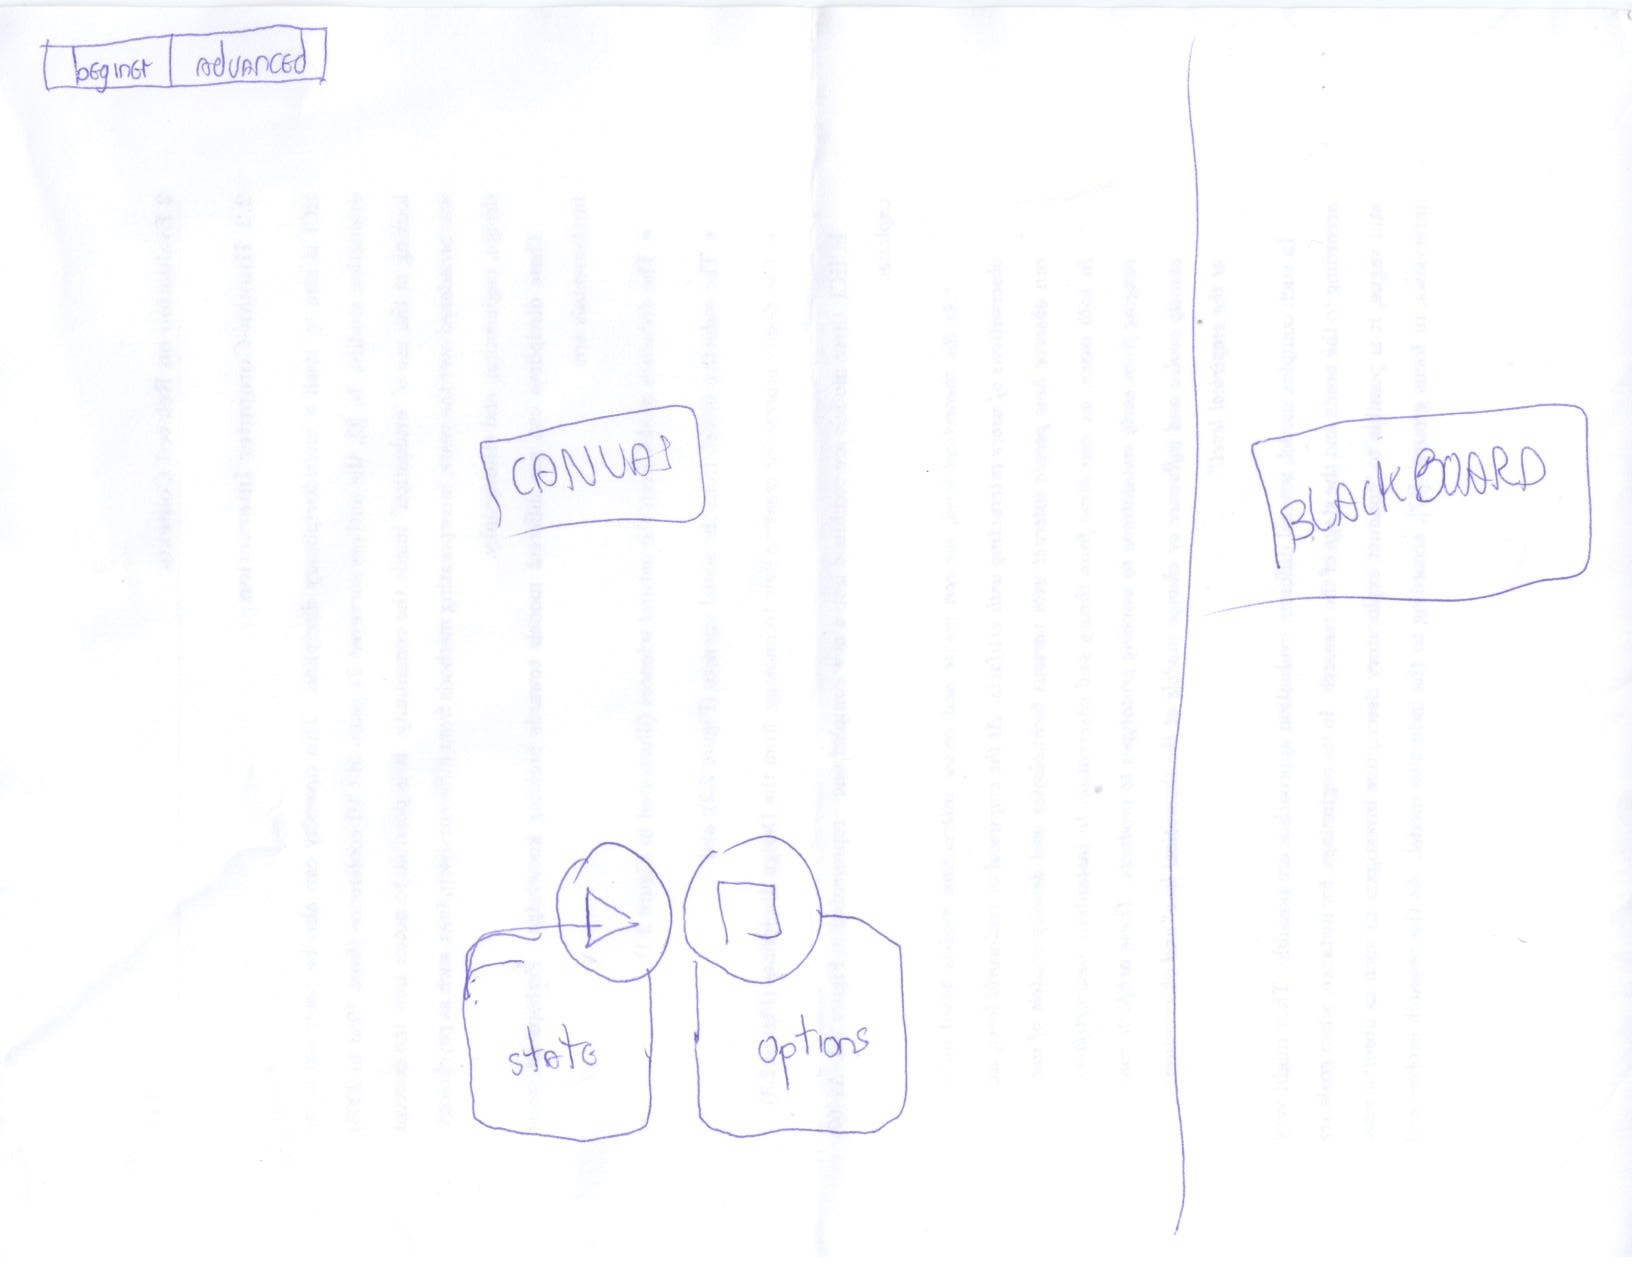
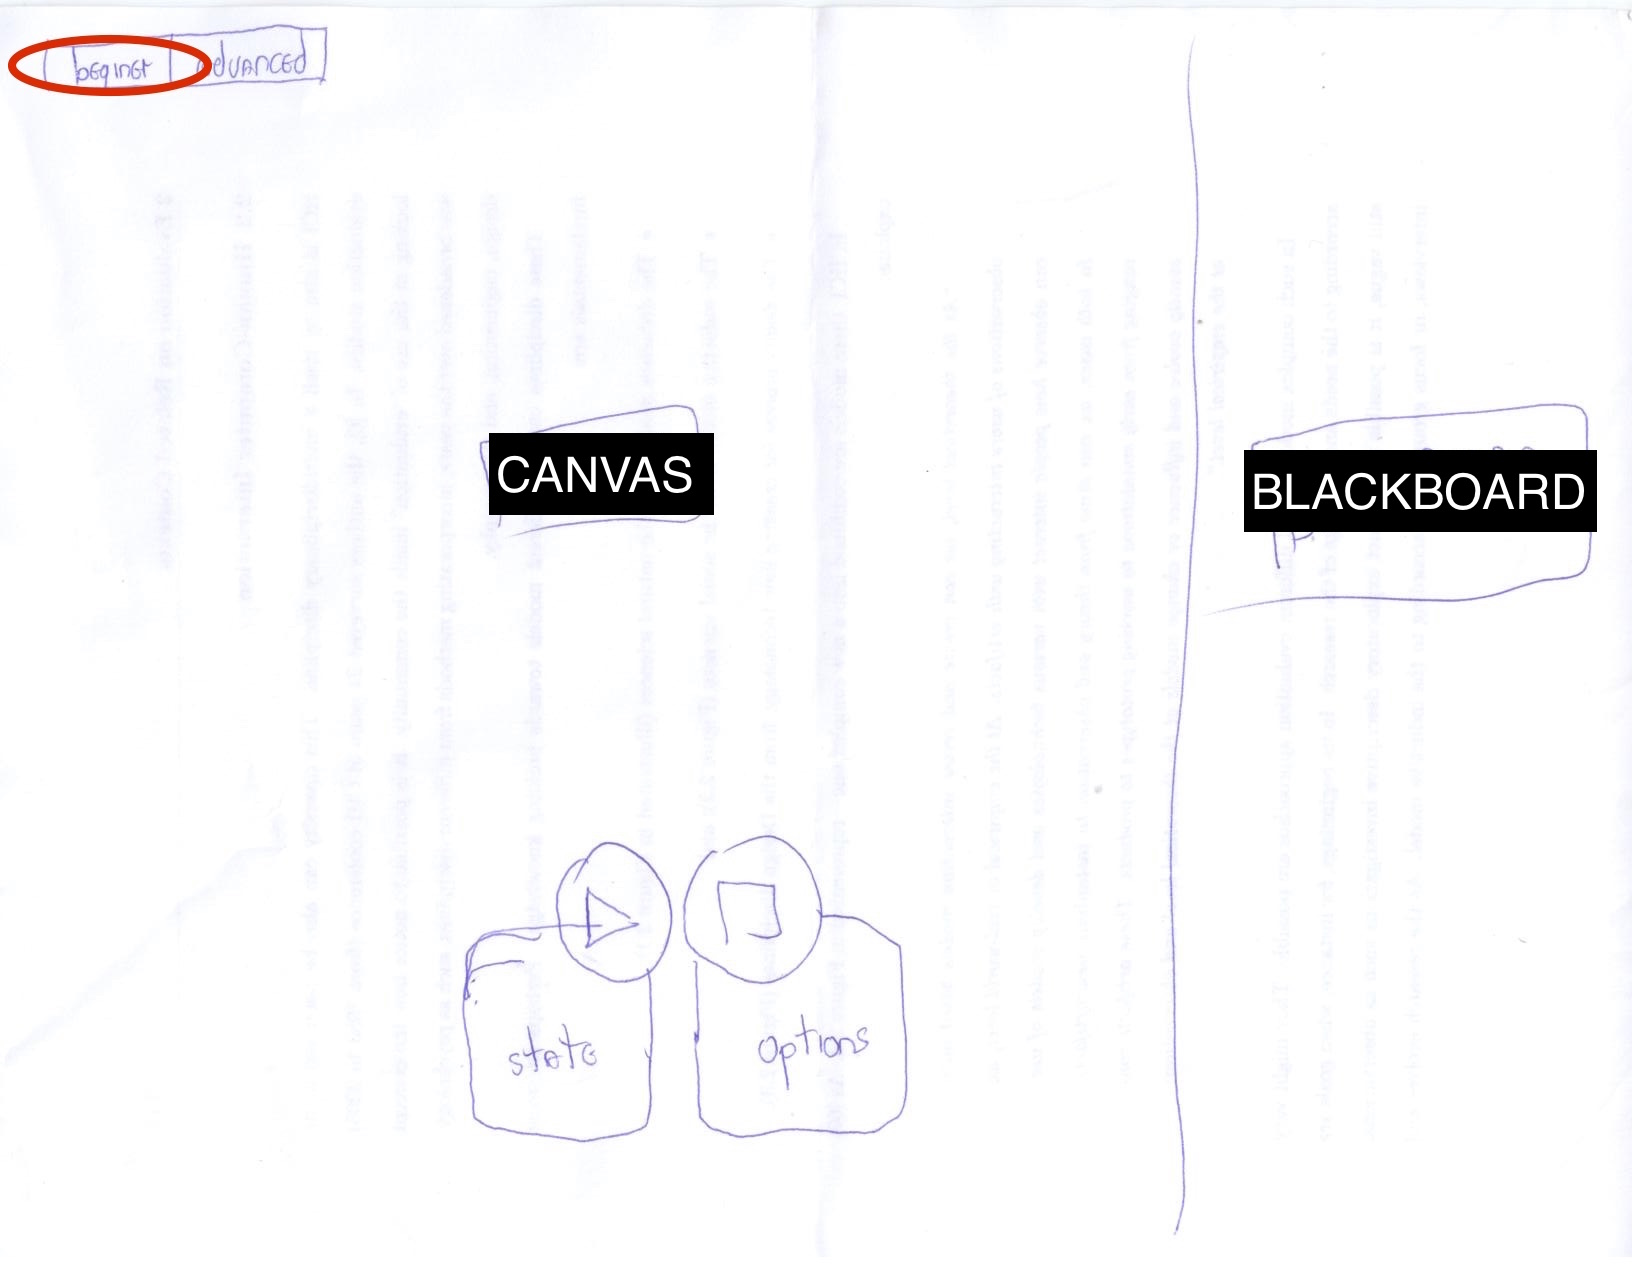
adding the advanced mode (BT) into the interface

Changed region(s): [[0.7418, 0.3365, 0.9891, 0.4282], [0.2782, 0.3365, 0.4327, 0.4282], [0.0, 0.0, 0.1236, 0.0918]]

diff --git a/cue trigger system/interface prototypes/prototype1.md b/cue trigger system/interface prototypes/prototype1.md
@@ -1,27 +1,32 @@
 #Interface Prototype 1
-The system is generally composed of a blackboard and a control model (canvas).
+The system is generally composed of a blackboard and a control model.
 
-![image1](../assets/prototype1-1.jpg)
+![image](../assets/prototype1-0.jpg)
 
 #Blackboard
 - Both models uses a blackboard to handle variables. Users can use these variables inside the Behavior Tree nodes or to trigger state changes;
 - Could accept OSC messages from other clients (i.e. in case we want to use sensor data input);
 
-![image2](../assets/prototype1-2.jpg)
+![image](../assets/prototype1-2.jpg)
 
 #Control model
 Defines the rules of how the system is going to behave. Can be separated into two categories: an easy & limited (represented by Finite-State Machines, the FSM) and a complex & powerful (represented by Behavior Trees, the BT). See reference for details regarding where these categories come from.
 
+Control models can be run and stopped by using the big buttons (see images below).
+
 ##Easy & limited model: Finite-State Machine
 Simple & straightforward, but limited in power and organization.
 
+###How does it look like?
+![image](../assets/prototype1-1.jpg)
+
 ###How to add states?
 
-![image2](../assets/prototype1-3.jpg)
+![image](../assets/prototype1-3.jpg)
 
 ###How to create connections between states?
 
-![image2](../assets/prototype1-4.jpg)
+![image](../assets/prototype1-4.jpg)
 
 ###What actions can be associated to the states?
 In priority order for the implementation:
@@ -36,30 +41,34 @@ In priority order for the implementation:
 ##Complex & powerful: Behavior Tree
 Powerful but more complex to use.
 
-###What are our composite nodes?
-In priority order for the implementation:
-- Parallel (1 input-n outputs);
-- Sequence (1 input-n outputs);
-- Selector (1 input-n outputs);
-- Conditional (1 input - 2 outputs);
-- Custom one (scripting).
+###How does it look like?
+![image](../assets/prototype1-5.jpg)
 
-###What are our leaf nodes?
-In priority order for the implementation:
-- OSC;
-- MIDI;
-- DMX;
-- Audio;
-- Video;
-- Script;
-- Abstraction (another Behavior tree).
+###What are our possible nodes?
+In priority order for the implementation <sup>1<sup>:
 
-###What are our decoration nodes?
-In priority order for the implementation:
-- For loop;
-- Conditional.
+**Leaves:**
 
-PS: Do we really need decorators?
+- OSC; MIDI; DMX; Audio; Video; Script;
+
+**Complex:**
+
+- Parallel;
+
+- Sequence (regular and random?);
+
+- Selector (regular and random?);
+
+- Decorator (Always fail, Always succeed, include, invert, limit, repeat, until success, - until fail).
+
+###How do I add a leaf node?
+![image](../assets/prototype1-6.jpg)
+
+###How do I add a complex node?
+![image](../assets/prototype1-7.jpg)
+
+###How to create connections between states?
+![image](../assets/prototype1-8.jpg)
 
 --
 
@@ -83,8 +92,9 @@ https://coffeebraingames.wordpress.com/2014/02/23/finite-state-machine-vs-behavi
 	
 http://www.gamasutra.com/blogs/JakobRasmussen/20160427/271188/Are_Behavior_Trees_a_Thing_of_the_Past.php
 
-	"[In FSM,] being able to translate from any state to any other state by specifying conditions, makes it very easy to design FSMs for AI behavior. However, it turns out this is also the drawback of the FSM approach. In professional games, FSMs can easily have hundreds of states, and at such sizes they become increasingly difficult to debug. Damian Isla outlined this in detail regarding the AI of Halo 2 at his GDC talk from 2005" <sup>1</sup>.
+	"[In FSM,] being able to translate from any state to any other state by specifying conditions, makes it very easy to design FSMs for AI behavior. However, it turns out this is also the drawback of the FSM approach. In professional games, FSMs can easily have hundreds of states, and at such sizes they become increasingly difficult to debug. Damian Isla outlined this in detail regarding the AI of Halo 2 at his GDC talk from 2005" <sup>2</sup>.
 	
 	"Behavior Trees in many cases provide a framework for designing more comprehensible and easier-to-read AIs than hierarchical FSMs. Also, the nicely organised tree makes for easier visual debugging in practice. However, the Behavior Tree technique has a number of shortcomings. (...) For very large behavior trees, the costs of evaluating the whole tree can be prohibitive.  The major challenge is that it does not provide a model for improving decision-making. The decision-making is locked to the conditional nodes, without specifying how decisions are made to invoke different subtrees". 
 
-<sup>1</sup> http://www.gamasutra.com/view/feature/130663/gdc_2005_proceeding_handling_.php
+<sup>1</sup> https://github.com/libgdx/gdx-ai/wiki/Behavior-Trees
+<sup>2</sup> http://www.gamasutra.com/view/feature/130663/gdc_2005_proceeding_handling_.php
